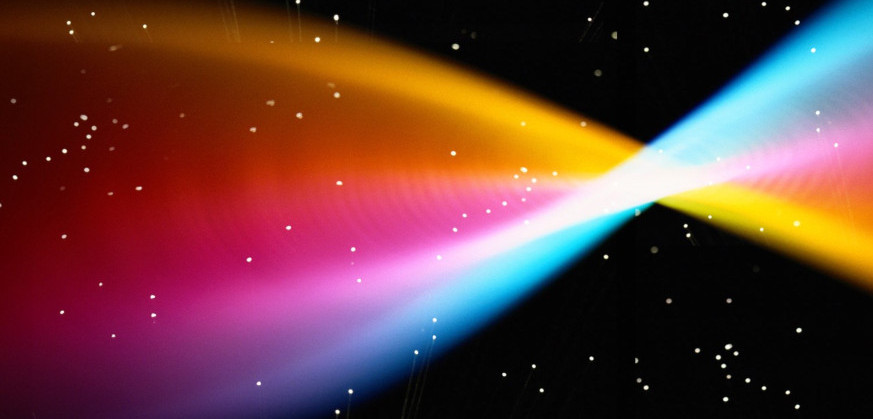
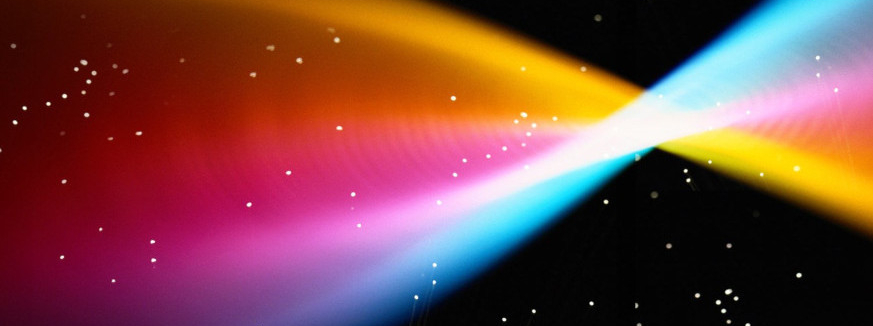
resizing

diff --git a/app/assets/stylesheets/application.css b/app/assets/stylesheets/application.css
@@ -350,12 +350,12 @@ input.signup-input{
 .home-container{
    font-family: Helvetica, sans-serif;
    font-size: 18px;
-   margin-top: 50px;
+   /* margin-top: 75px; */
    margin-left: 25px;
    margin-right: 25px;
    /* margin-bottom: 50px; */
    /* font-style: oblique; */
-   height: 80vh;
+   height: 70vh;
    display: flex;
    flex-direction: row;
    border: 1px solid red;
@@ -364,23 +364,25 @@ input.signup-input{
    border: 1px solid blue;
    display: flex;
    flex-direction: column;
+   width: 33%;
 }
 .home-main-pane{
    color: white;
+   font-weight: 800;
    /* position: relative; */
    width: 66%;
    height: 100%;
 }
 .home-main-pane-title{
    position: absolute;
-   top: 150px;
-   left: 350px;
+   top: 100px;
+   left: 500px;
    font-size: 36px;
 }
 .home-main-pane-captions{
    position: absolute;
-   bottom: 75px;
-   left: 50px;
+   top: 150px;
+   left: 550px;
    font-size: 23px;
 }
 .home-main-img{
@@ -416,15 +418,17 @@ input.signup-input{
 }
 .home-pane-three-captions{
    /* position: absolute; */
-   /* color: white; */
+   color: white;
    /* bottom: 5px; */
    /* left: 5px; */
 }
 .home-now-playing{
    /* position: relative; */
    /* top: -400px; */
-   margin-top: 50px;
+   margin-top: 25px;
    margin-left: 50px;
+   font-family: sans-serif;
+   font-size: 18px;
 }
 /* .home-divider{
     height: 0;
@@ -439,7 +443,7 @@ input.signup-input{
 .home-titles{
    margin-top: 50px;
    margin-left: 100px;
-   margin-right: 15px;
+   /* margin-right: 15px; */
    margin-bottom: 25px;
    font-size: 23px;
    font-style: oblique;

diff --git a/frontend/components/home/home.jsx b/frontend/components/home/home.jsx
@@ -68,26 +68,26 @@ return(
     </a>
     </div>
     <div className="home-pane-two">
-        <span className="home-pane-two-captions">The Classic - Now hear it Classical!</span>
         <Link to="/albums/1/artists/3">
         <img className="home-img-two" src="vsqhome.jpg"></img>
         </Link>
+    <span className="home-pane-two-captions">
+        The Classic - Now hear it Classical!
+    </span>
     </div>
     <div className="home-pane-three">
     <a href="https://en.wikipedia.org/wiki/The_Dark_Side_of_the_Moon#Covers,_tributes_and_samples">
-        <span className="home-pane-three-captions">
-                        Covered more than any other album
-    
-                Both live and in studio, across decades and genres.
-    
-        </span>
-            <img className="covers" src="skwerl.jpg"></img>
-        </a>
+        <img className="covers" src="skwerlhome.jpg"></img>
+    </a>
     </div>
+    <span className="home-pane-three-captions">  
+   Covered across genres and decades, <br></br>
+   in concert and in studio.
+    </span>
 </div>
 </div>
 <div className="home-now-playing">
-    These artists are popular, right now!
+    Now Playing:
     <div className="artist-index-container">
         {pickedArtists}
     </div>
